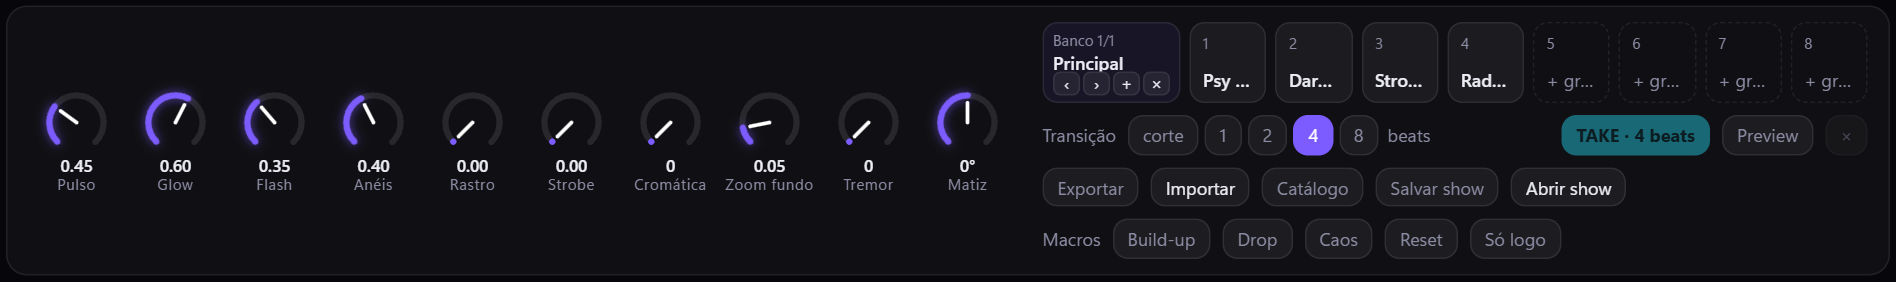
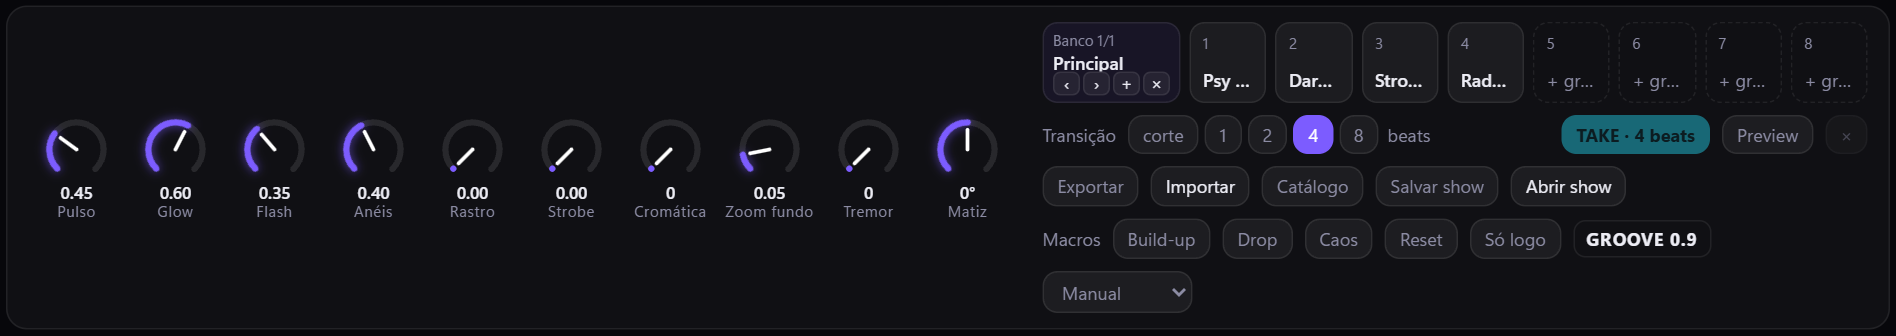
Docs: capturas refeitas com a UI da 0.3.5 (chip do Intelligent Show, seletor de modo) e imagem das Camadas

diff --git a/docs/TUTORIAL.md b/docs/TUTORIAL.md
@@ -360,6 +360,8 @@ por camada; a aba Efeitos mostra o custo. Fundo, foto, vídeo, logo e pós (vinh
 blackout) não são camadas: ficam sempre no lugar de sempre. Por enquanto as camadas valem
 para o visual inteiro e não entram nas cenas; isso muda na próxima versão.
 
+![Seção Camadas da aba Efeitos: mandala em Somar a 70 %](img/camadas.png)
+
 ---
 
 ## 11. O que no som move cada efeito
